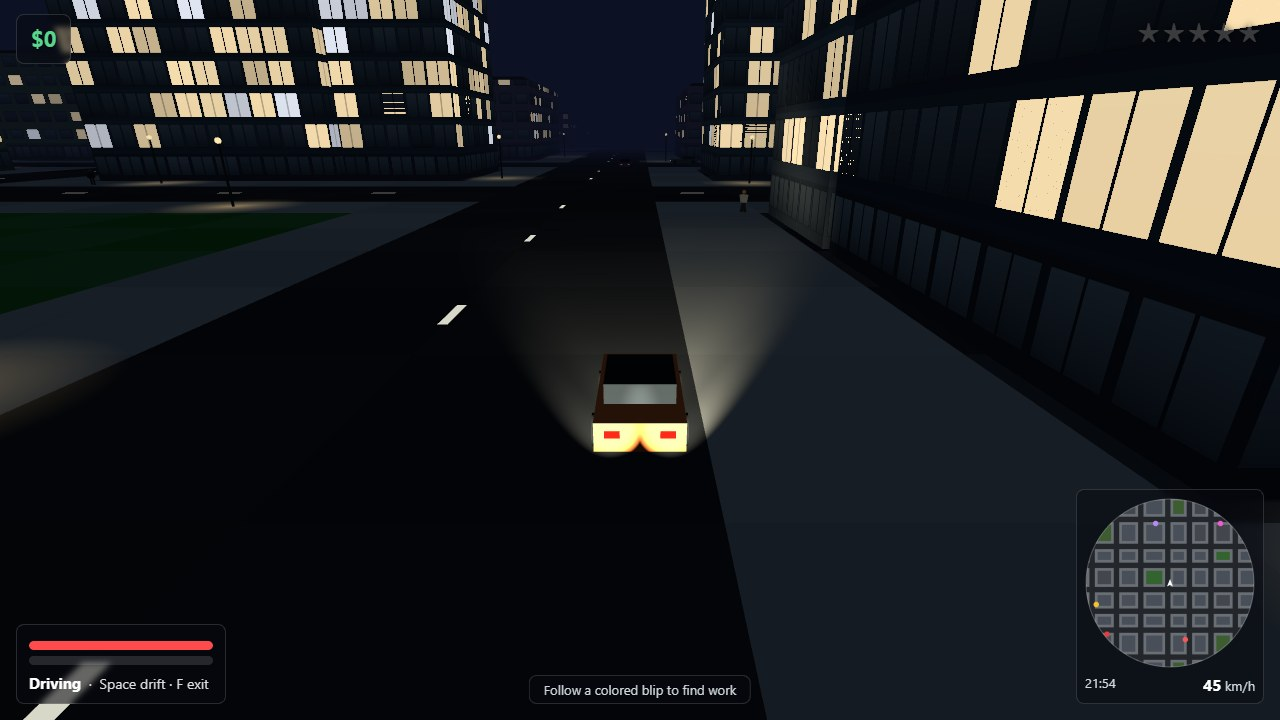
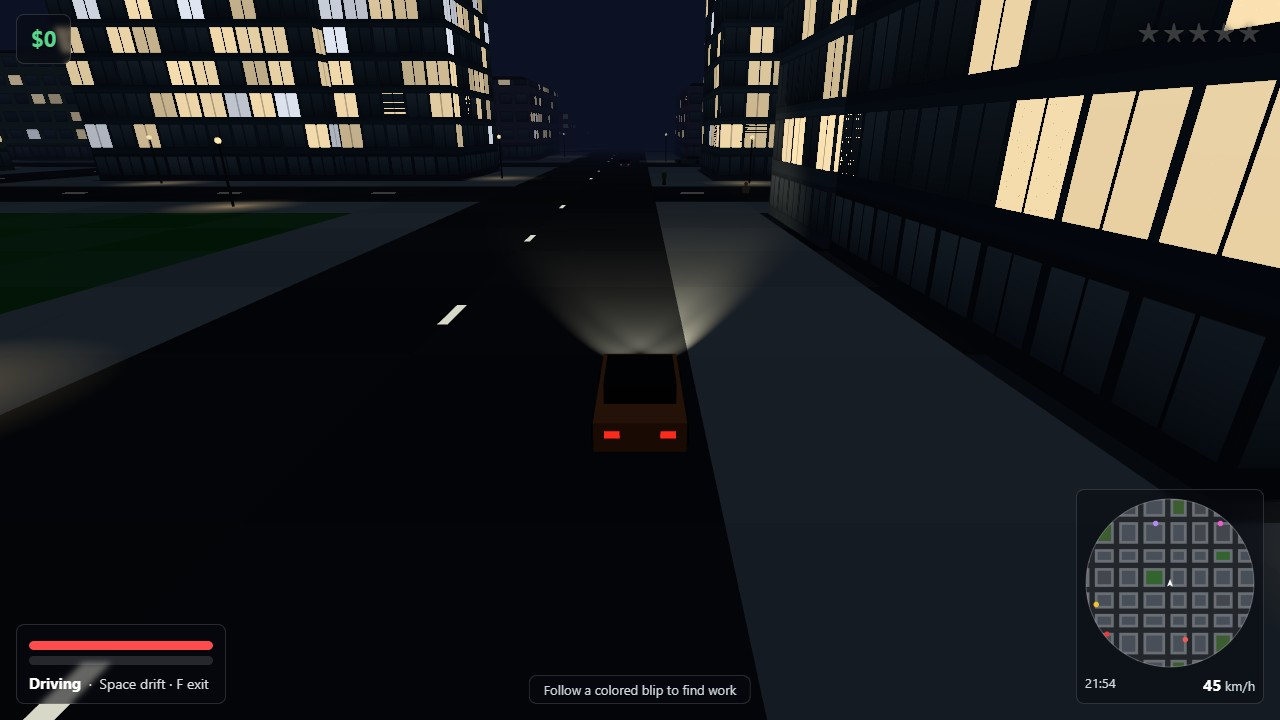
Move the player's headlights with the car every step
The two spotlights were only repositioned in the 2 Hz night update, so
at 45 km/h they trailed up to 6 m behind and lit the rear bumper. They
now follow the car each simulation step; the night switch-over for the
city and the other cars stays at 2 Hz. Re-recorded the drive GIF and
the night screenshot with the same script and camera path.

Changed region(s): [[0.4062, 0.3667, 0.625, 0.6417], [0.625, 0.2444, 0.6562, 0.3361]]

diff --git a/src/main.js b/src/main.js
@@ -172,7 +172,7 @@ function handleKeys() {
 }
 
 // ---------- simulation step ----------
-let lightT = 0;
+let lightT = 0, lightsOn = false;
 function update(dt) {
   const w = world;
 
@@ -195,23 +195,26 @@ function update(dt) {
     lightT = 0.5;
     const nf = w.daynight.nightFactor;
     cityMesh.setNight(nf);
-    const lightsOn = nf > 0.35;
+    lightsOn = nf > 0.35;
     for (const v of w.allVehicles())
       if (!v.wrecked && (v.driver || !v.asleep)) v.setHeadlights(lightsOn);
-    const pv = w.player.vehicle;
-    headL.intensity = headR.intensity = (lightsOn && pv && !pv.wrecked) ? 110 : 0;
-    if (pv) {
-      const [fx, fz] = pv.fwd;
-      const rx = -fz, rz = fx;
-      headL.position.set(pv.pos.x + fx * 2 + rx * 0.6, 0.8, pv.pos.z + fz * 2 + rz * 0.6);
-      headR.position.set(pv.pos.x + fx * 2 - rx * 0.6, 0.8, pv.pos.z + fz * 2 - rz * 0.6);
-      headL.target.position.set(pv.pos.x + fx * 30 + rx * 0.6, 0.2, pv.pos.z + fz * 30 + rz * 0.6);
-      headR.target.position.set(pv.pos.x + fx * 30 - rx * 0.6, 0.2, pv.pos.z + fz * 30 - rz * 0.6);
-    }
+  }
+
+  // the player's two spotlights follow the car every step: at 2 Hz they
+  // trailed up to 6 m behind at city speeds and lit the rear bumper
+  const pv = w.player.vehicle;
+  const beams = lightsOn && pv && !pv.wrecked;
+  headL.intensity = headR.intensity = beams ? 110 : 0;
+  if (beams) {
+    const [fx, fz] = pv.fwd;
+    const rx = -fz, rz = fx;
+    headL.position.set(pv.pos.x + fx * 2 + rx * 0.6, 0.8, pv.pos.z + fz * 2 + rz * 0.6);
+    headR.position.set(pv.pos.x + fx * 2 - rx * 0.6, 0.8, pv.pos.z + fz * 2 - rz * 0.6);
+    headL.target.position.set(pv.pos.x + fx * 30 + rx * 0.6, 0.2, pv.pos.z + fz * 30 + rz * 0.6);
+    headR.target.position.set(pv.pos.x + fx * 30 - rx * 0.6, 0.2, pv.pos.z + fz * 30 - rz * 0.6);
   }
 
   // engine audio
-  const pv = w.player.vehicle;
   w.audio.engine(pv ? Math.min(1, pv.speed / pv.spec.maxF) : 0,
     pv ? pv.controls.throttle !== 0 : false, !!pv);
 
